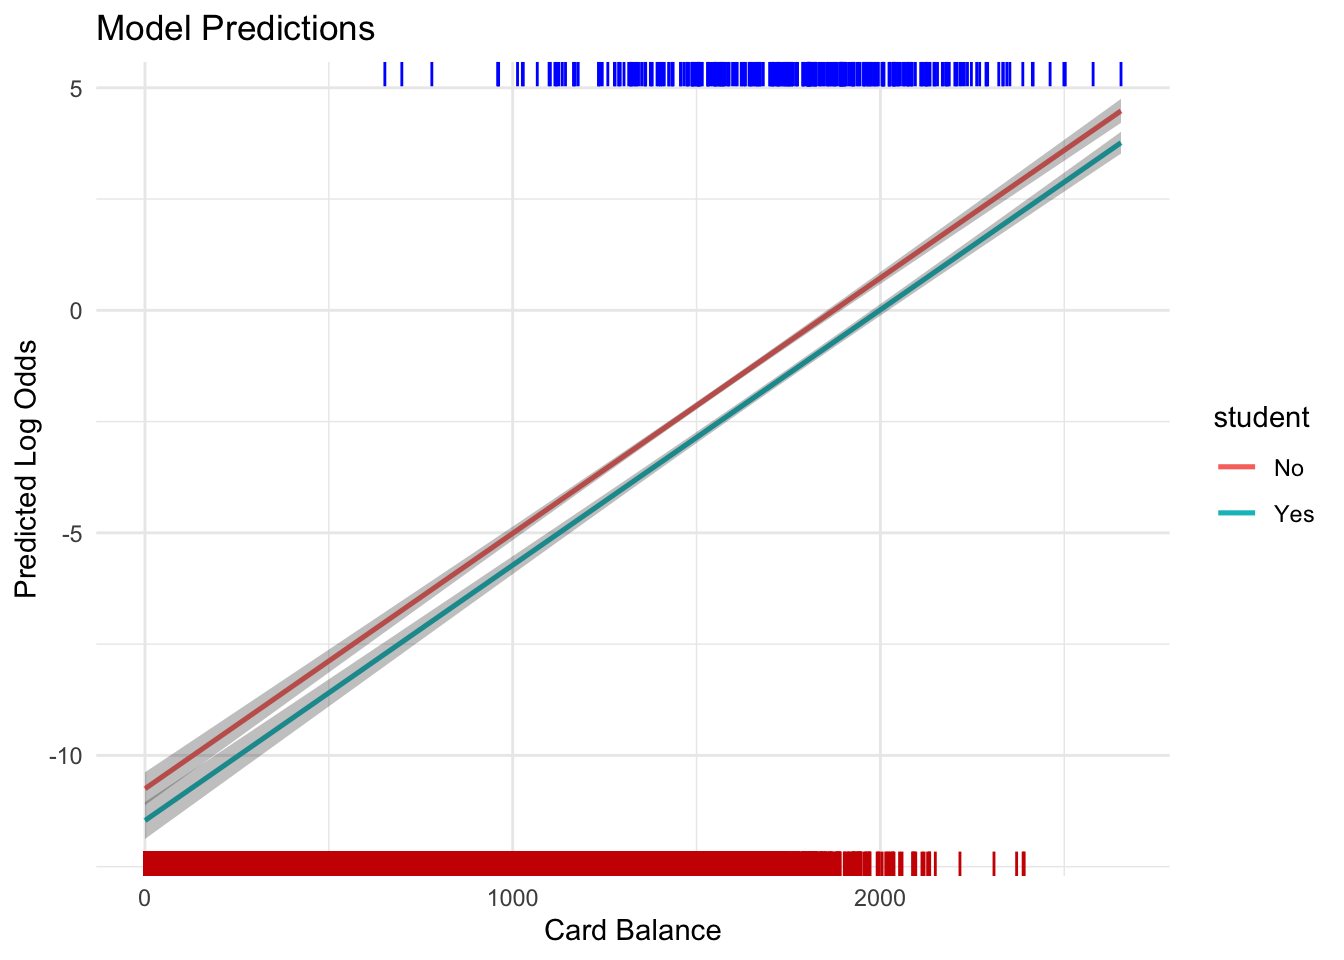
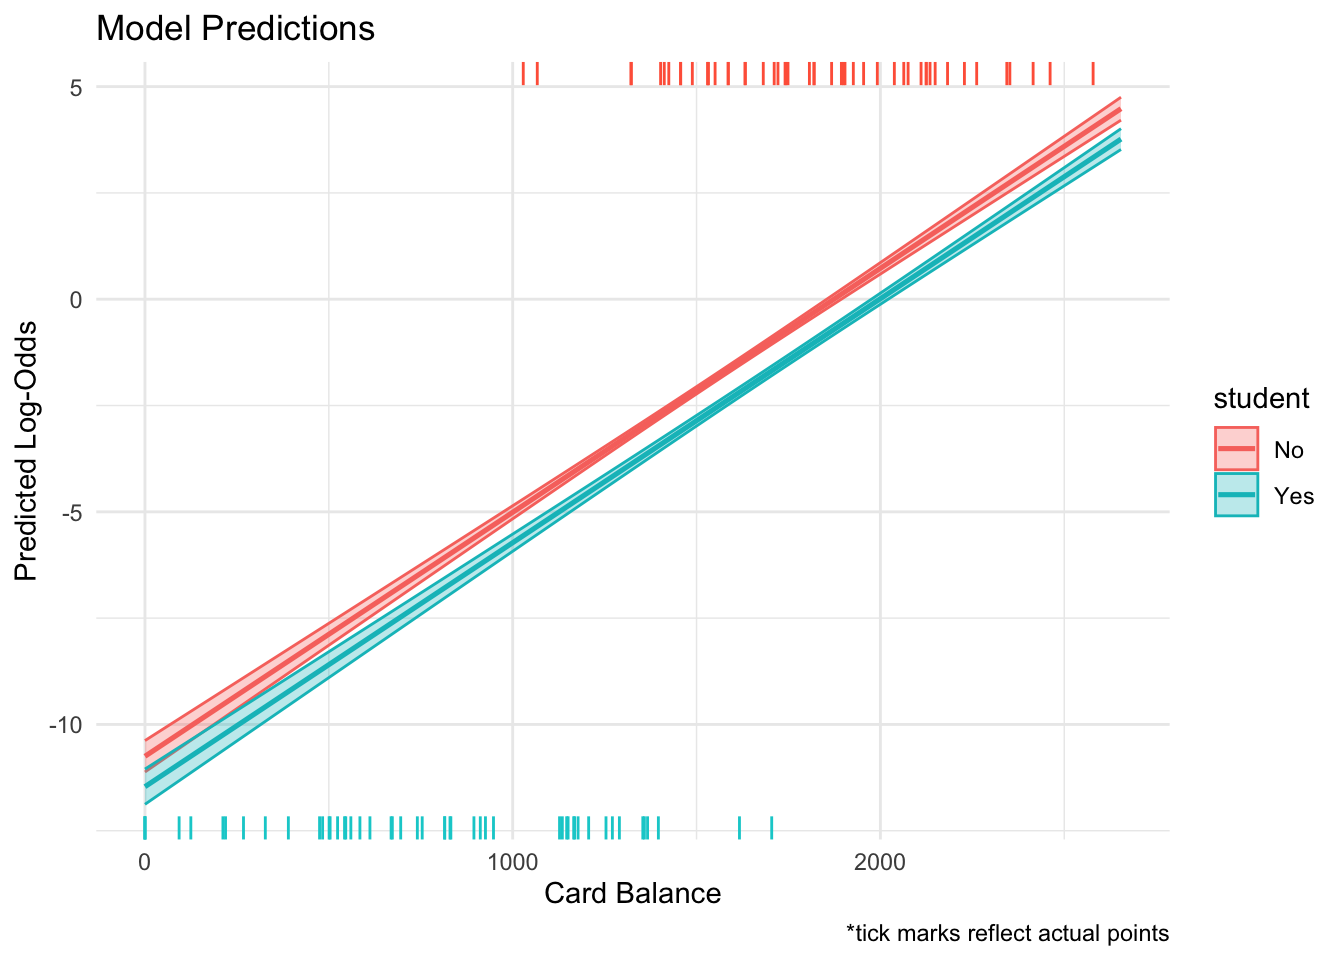
updates

diff --git a/docs/posts/BlogPost3/index.html b/docs/posts/BlogPost3/index.html
@@ -178,7 +178,7 @@ pre > code.sourceCode > span > a:first-child::before { text-decoration: underlin
 
 <section id="introduction" class="level2">
 <h2 class="anchored" data-anchor-id="introduction">Introduction</h2>
-<p>The data set I am working with for this post consists of 10000 individuals and whether their credit card has defaulted or not. The variables I am using are card balance and whether the credit card holder is a student. My goal is to model and visualize probability of defaulting by using logistic regression. An important quality of the data to note is that nearly 97% of the cases do not default. The data set is publicly available on Kaggle and can be found below.</p>
+<p>The data set I am working with for this post consists of 10000 individuals and whether their credit card has defaulted or not. The variables I am interested in are card balance, income, and whether the credit card holder is a student. My goal is to model and visualize probability of defaulting by using logistic regression. An important quality of the data to note is that nearly 97% of the cases do not default. The data set is publicly available on Kaggle and can be found through the link below.</p>
 <p>Link: <a href="https://www.kaggle.com/datasets/singh001avinash/default-credit-card">Default Dataset</a></p>
 <section id="class-balance" class="level3">
 <h3 class="anchored" data-anchor-id="class-balance">Class balance</h3>
@@ -225,7 +225,7 @@ Number of Fisher Scoring iterations: 8</code></pre>
 <div class="cell">
 <div class="sourceCode cell-code" id="cb4"><pre class="sourceCode r code-with-copy"><code class="sourceCode r"><span id="cb4-1"><a href="#cb4-1" aria-hidden="true" tabindex="-1"></a>grid <span class="ot">&lt;-</span> credit <span class="sc">|&gt;</span></span>
 <span id="cb4-2"><a href="#cb4-2" aria-hidden="true" tabindex="-1"></a>  <span class="fu">data_grid</span>(</span>
-<span id="cb4-3"><a href="#cb4-3" aria-hidden="true" tabindex="-1"></a>    <span class="at">balance =</span> <span class="fu">seq_range</span>(balance, <span class="at">n =</span> <span class="dv">40</span>),</span>
+<span id="cb4-3"><a href="#cb4-3" aria-hidden="true" tabindex="-1"></a>    <span class="at">balance =</span> <span class="fu">seq_range</span>(balance, <span class="at">n =</span> <span class="dv">60</span>),</span>
 <span id="cb4-4"><a href="#cb4-4" aria-hidden="true" tabindex="-1"></a>    <span class="at">student =</span> <span class="fu">c</span>(<span class="st">"Yes"</span>, <span class="st">"No"</span>)</span>
 <span id="cb4-5"><a href="#cb4-5" aria-hidden="true" tabindex="-1"></a>  ) </span>
 <span id="cb4-6"><a href="#cb4-6" aria-hidden="true" tabindex="-1"></a></span>
@@ -236,8 +236,17 @@ Number of Fisher Scoring iterations: 8</code></pre>
 <span id="cb4-11"><a href="#cb4-11" aria-hidden="true" tabindex="-1"></a>  <span class="fu">mutate</span>(<span class="at">.lower =</span> .fitted <span class="sc">-</span> .se.fit,</span>
 <span id="cb4-12"><a href="#cb4-12" aria-hidden="true" tabindex="-1"></a>         <span class="at">.upper =</span> .fitted <span class="sc">+</span> .se.fit)</span>
 <span id="cb4-13"><a href="#cb4-13" aria-hidden="true" tabindex="-1"></a></span>
-<span id="cb4-14"><a href="#cb4-14" aria-hidden="true" tabindex="-1"></a>default_yes <span class="ot">&lt;-</span> credit<span class="sc">|&gt;</span><span class="fu">filter</span>(default <span class="sc">==</span> <span class="dv">1</span>)</span>
-<span id="cb4-15"><a href="#cb4-15" aria-hidden="true" tabindex="-1"></a>default_no <span class="ot">&lt;-</span> credit<span class="sc">|&gt;</span><span class="fu">filter</span>(default <span class="sc">==</span> <span class="dv">0</span>)</span></code><button title="Copy to Clipboard" class="code-copy-button"><i class="bi"></i></button></pre></div>
+<span id="cb4-14"><a href="#cb4-14" aria-hidden="true" tabindex="-1"></a></span>
+<span id="cb4-15"><a href="#cb4-15" aria-hidden="true" tabindex="-1"></a></span>
+<span id="cb4-16"><a href="#cb4-16" aria-hidden="true" tabindex="-1"></a><span class="co"># obtaining sample to avoid overlap in following geom_rug()</span></span>
+<span id="cb4-17"><a href="#cb4-17" aria-hidden="true" tabindex="-1"></a>default_yes <span class="ot">&lt;-</span> credit<span class="sc">|&gt;</span></span>
+<span id="cb4-18"><a href="#cb4-18" aria-hidden="true" tabindex="-1"></a>  <span class="fu">filter</span>(default <span class="sc">==</span> <span class="dv">1</span>)<span class="sc">|&gt;</span></span>
+<span id="cb4-19"><a href="#cb4-19" aria-hidden="true" tabindex="-1"></a>  <span class="fu">sample_n</span>(<span class="at">size =</span> <span class="dv">50</span>, <span class="at">replace =</span> F)</span>
+<span id="cb4-20"><a href="#cb4-20" aria-hidden="true" tabindex="-1"></a></span>
+<span id="cb4-21"><a href="#cb4-21" aria-hidden="true" tabindex="-1"></a></span>
+<span id="cb4-22"><a href="#cb4-22" aria-hidden="true" tabindex="-1"></a>default_no <span class="ot">&lt;-</span> credit<span class="sc">|&gt;</span></span>
+<span id="cb4-23"><a href="#cb4-23" aria-hidden="true" tabindex="-1"></a>  <span class="fu">filter</span>(default <span class="sc">==</span> <span class="dv">0</span>)<span class="sc">|&gt;</span></span>
+<span id="cb4-24"><a href="#cb4-24" aria-hidden="true" tabindex="-1"></a>  <span class="fu">sample_n</span>(<span class="at">size =</span> <span class="dv">50</span>, <span class="at">replace =</span> F)</span></code><button title="Copy to Clipboard" class="code-copy-button"><i class="bi"></i></button></pre></div>
 </div>
 </section>
 <section id="log-odds-visualization" class="level2">
@@ -248,12 +257,12 @@ Number of Fisher Scoring iterations: 8</code></pre>
 <span id="cb5-3"><a href="#cb5-3" aria-hidden="true" tabindex="-1"></a>  <span class="fu">geom_line</span>(<span class="fu">aes</span>(<span class="at">color =</span> student), <span class="at">size =</span> <span class="fl">0.9</span>)<span class="sc">+</span></span>
 <span id="cb5-4"><a href="#cb5-4" aria-hidden="true" tabindex="-1"></a>  <span class="fu">geom_ribbon</span>(<span class="at">data =</span> aug, <span class="fu">aes</span>(<span class="at">y =</span> .fitted,</span>
 <span id="cb5-5"><a href="#cb5-5" aria-hidden="true" tabindex="-1"></a>                                  <span class="at">ymin =</span> .lower,</span>
-<span id="cb5-6"><a href="#cb5-6" aria-hidden="true" tabindex="-1"></a>                                  <span class="at">ymax =</span> .upper), </span>
+<span id="cb5-6"><a href="#cb5-6" aria-hidden="true" tabindex="-1"></a>                                  <span class="at">ymax =</span> .upper, <span class="at">color =</span> student, <span class="at">fill =</span> student), </span>
 <span id="cb5-7"><a href="#cb5-7" aria-hidden="true" tabindex="-1"></a>              <span class="at">alpha =</span> <span class="fl">0.3</span>)<span class="sc">+</span></span>
-<span id="cb5-8"><a href="#cb5-8" aria-hidden="true" tabindex="-1"></a>  <span class="fu">geom_rug</span>(<span class="at">data =</span> default_yes, <span class="at">sides =</span> <span class="st">"t"</span>, <span class="fu">aes</span>(<span class="at">y =</span> default), <span class="at">color =</span> <span class="st">"blue"</span>)<span class="sc">+</span></span>
-<span id="cb5-9"><a href="#cb5-9" aria-hidden="true" tabindex="-1"></a>  <span class="fu">geom_rug</span>(<span class="at">data =</span> default_no, <span class="at">sides =</span> <span class="st">"b"</span>, <span class="fu">aes</span>(<span class="at">y =</span> default), <span class="at">color =</span> <span class="st">"red3"</span>)<span class="sc">+</span></span>
+<span id="cb5-8"><a href="#cb5-8" aria-hidden="true" tabindex="-1"></a>  <span class="fu">geom_rug</span>(<span class="at">data =</span> default_yes, <span class="at">sides =</span> <span class="st">"t"</span>, <span class="fu">aes</span>(<span class="at">y =</span> default), <span class="at">color =</span> <span class="st">"tomato"</span>)<span class="sc">+</span></span>
+<span id="cb5-9"><a href="#cb5-9" aria-hidden="true" tabindex="-1"></a>  <span class="fu">geom_rug</span>(<span class="at">data =</span> default_no, <span class="at">sides =</span> <span class="st">"b"</span>, <span class="fu">aes</span>(<span class="at">y =</span> default), <span class="at">color =</span> <span class="st">"darkturquoise"</span>)<span class="sc">+</span></span>
 <span id="cb5-10"><a href="#cb5-10" aria-hidden="true" tabindex="-1"></a>  <span class="fu">theme_minimal</span>()<span class="sc">+</span></span>
-<span id="cb5-11"><a href="#cb5-11" aria-hidden="true" tabindex="-1"></a>  <span class="fu">labs</span>(<span class="at">x =</span> <span class="st">"Card Balance"</span>, <span class="at">y =</span> <span class="st">"Predicted Log Odds"</span>, <span class="at">title =</span> <span class="st">"Model Predictions"</span>)</span></code><button title="Copy to Clipboard" class="code-copy-button"><i class="bi"></i></button></pre></div>
+<span id="cb5-11"><a href="#cb5-11" aria-hidden="true" tabindex="-1"></a>  <span class="fu">labs</span>(<span class="at">x =</span> <span class="st">"Card Balance"</span>, <span class="at">y =</span> <span class="st">"Predicted Log-Odds"</span>, <span class="at">title =</span> <span class="st">"Model Predictions"</span>, <span class="at">caption =</span> <span class="st">"*tick marks reflect actual points"</span>)</span></code><button title="Copy to Clipboard" class="code-copy-button"><i class="bi"></i></button></pre></div>
 <div class="cell-output cell-output-stderr">
 <pre><code>Warning: Using `size` aesthetic for lines was deprecated in ggplot2 3.4.0.
 ℹ Please use `linewidth` instead.</code></pre>
@@ -278,12 +287,12 @@ Number of Fisher Scoring iterations: 8</code></pre>
 <span id="cb8-3"><a href="#cb8-3" aria-hidden="true" tabindex="-1"></a>  <span class="fu">geom_line</span>(<span class="fu">aes</span>(<span class="at">color =</span> student), <span class="at">size =</span> <span class="fl">0.9</span>)<span class="sc">+</span></span>
 <span id="cb8-4"><a href="#cb8-4" aria-hidden="true" tabindex="-1"></a>  <span class="fu">geom_ribbon</span>(<span class="at">data =</span> aug2, <span class="fu">aes</span>(<span class="at">y =</span> .prob,</span>
 <span id="cb8-5"><a href="#cb8-5" aria-hidden="true" tabindex="-1"></a>                                  <span class="at">ymin =</span> .lowerprob,</span>
-<span id="cb8-6"><a href="#cb8-6" aria-hidden="true" tabindex="-1"></a>                                  <span class="at">ymax =</span> .upperprob), </span>
+<span id="cb8-6"><a href="#cb8-6" aria-hidden="true" tabindex="-1"></a>                                  <span class="at">ymax =</span> .upperprob, <span class="at">color =</span> student, <span class="at">fill =</span> student), </span>
 <span id="cb8-7"><a href="#cb8-7" aria-hidden="true" tabindex="-1"></a>              <span class="at">alpha =</span> <span class="fl">0.3</span>)<span class="sc">+</span></span>
-<span id="cb8-8"><a href="#cb8-8" aria-hidden="true" tabindex="-1"></a>  <span class="fu">geom_rug</span>(<span class="at">data =</span> default_yes, <span class="at">sides =</span> <span class="st">"t"</span>, <span class="fu">aes</span>(<span class="at">y =</span> default), <span class="at">color =</span> <span class="st">"blue"</span>)<span class="sc">+</span></span>
-<span id="cb8-9"><a href="#cb8-9" aria-hidden="true" tabindex="-1"></a>  <span class="fu">geom_rug</span>(<span class="at">data =</span> default_no, <span class="at">sides =</span> <span class="st">"b"</span>, <span class="fu">aes</span>(<span class="at">y =</span> default), <span class="at">color =</span> <span class="st">"red3"</span>)<span class="sc">+</span></span>
+<span id="cb8-8"><a href="#cb8-8" aria-hidden="true" tabindex="-1"></a>  <span class="fu">geom_rug</span>(<span class="at">data =</span> default_yes, <span class="at">sides =</span> <span class="st">"t"</span>, <span class="fu">aes</span>(<span class="at">y =</span> default), <span class="at">color =</span> <span class="st">"tomato"</span>)<span class="sc">+</span></span>
+<span id="cb8-9"><a href="#cb8-9" aria-hidden="true" tabindex="-1"></a>  <span class="fu">geom_rug</span>(<span class="at">data =</span> default_no, <span class="at">sides =</span> <span class="st">"b"</span>, <span class="fu">aes</span>(<span class="at">y =</span> default), <span class="at">color =</span> <span class="st">"darkturquoise"</span>)<span class="sc">+</span></span>
 <span id="cb8-10"><a href="#cb8-10" aria-hidden="true" tabindex="-1"></a>  <span class="fu">theme_minimal</span>()<span class="sc">+</span></span>
-<span id="cb8-11"><a href="#cb8-11" aria-hidden="true" tabindex="-1"></a>  <span class="fu">labs</span>(<span class="at">x =</span> <span class="st">"Card Balance"</span>, <span class="at">y =</span> <span class="st">"Predicted Probabilities"</span>, <span class="at">title =</span> <span class="st">"Model Predictions"</span>)</span></code><button title="Copy to Clipboard" class="code-copy-button"><i class="bi"></i></button></pre></div>
+<span id="cb8-11"><a href="#cb8-11" aria-hidden="true" tabindex="-1"></a>  <span class="fu">labs</span>(<span class="at">x =</span> <span class="st">"Card Balance"</span>, <span class="at">y =</span> <span class="st">"Predicted Probabilities"</span>, <span class="at">title =</span> <span class="st">"Model Predictions"</span>, <span class="at">caption =</span> <span class="st">"*tick marks reflect actual points"</span>)</span></code><button title="Copy to Clipboard" class="code-copy-button"><i class="bi"></i></button></pre></div>
 <div class="cell-output-display">
 <p><img src="index_files/figure-html/unnamed-chunk-8-1.png" class="img-fluid" width="672"></p>
 </div>
@@ -297,6 +306,71 @@ Number of Fisher Scoring iterations: 8</code></pre>
 <section id="connection-to-class-ideas" class="level2">
 <h2 class="anchored" data-anchor-id="connection-to-class-ideas">Connection to Class Ideas</h2>
 <p>I would argue that this visualization is effective because it displays all of the components of the logistic regression model which I built to predict defaults. The process of creating the model, using the grid feature to make predictions at different values of our predictors, and displaying the resulting model allows viewers to understand precisely how the model is gauging probability for cases. Additionally, the use of the ribbon helps to display model uncertainty in terms of standard error.</p>
+</section>
+<section id="adding-income-to-the-model" class="level2">
+<h2 class="anchored" data-anchor-id="adding-income-to-the-model">Adding <code>income</code> to the Model</h2>
+<div class="cell">
+<div class="sourceCode cell-code" id="cb9"><pre class="sourceCode r code-with-copy"><code class="sourceCode r"><span id="cb9-1"><a href="#cb9-1" aria-hidden="true" tabindex="-1"></a>mod2 <span class="ot">&lt;-</span> <span class="fu">glm</span>(default <span class="sc">~</span> balance <span class="sc">+</span> income <span class="sc">+</span> student, <span class="at">data =</span> credit,</span>
+<span id="cb9-2"><a href="#cb9-2" aria-hidden="true" tabindex="-1"></a>                     <span class="at">family =</span> <span class="st">"binomial"</span>)</span>
+<span id="cb9-3"><a href="#cb9-3" aria-hidden="true" tabindex="-1"></a></span>
+<span id="cb9-4"><a href="#cb9-4" aria-hidden="true" tabindex="-1"></a>grid2 <span class="ot">&lt;-</span> credit <span class="sc">|&gt;</span></span>
+<span id="cb9-5"><a href="#cb9-5" aria-hidden="true" tabindex="-1"></a>  <span class="fu">data_grid</span>(</span>
+<span id="cb9-6"><a href="#cb9-6" aria-hidden="true" tabindex="-1"></a>    <span class="at">balance =</span> <span class="fu">seq_range</span>(balance, <span class="at">n =</span> <span class="dv">60</span>),</span>
+<span id="cb9-7"><a href="#cb9-7" aria-hidden="true" tabindex="-1"></a>    <span class="at">income =</span> <span class="fu">seq_range</span>(income, <span class="at">n =</span> <span class="dv">4</span>, <span class="at">pretty =</span> T),</span>
+<span id="cb9-8"><a href="#cb9-8" aria-hidden="true" tabindex="-1"></a>    <span class="at">student =</span> <span class="fu">c</span>(<span class="st">"Yes"</span>, <span class="st">"No"</span>)</span>
+<span id="cb9-9"><a href="#cb9-9" aria-hidden="true" tabindex="-1"></a>  ) </span>
+<span id="cb9-10"><a href="#cb9-10" aria-hidden="true" tabindex="-1"></a></span>
+<span id="cb9-11"><a href="#cb9-11" aria-hidden="true" tabindex="-1"></a>aug3 <span class="ot">&lt;-</span> <span class="fu">augment</span>(mod2, <span class="at">newdata =</span> grid2,</span>
+<span id="cb9-12"><a href="#cb9-12" aria-hidden="true" tabindex="-1"></a>                    <span class="at">se_fit =</span> <span class="cn">TRUE</span>)<span class="sc">|&gt;</span></span>
+<span id="cb9-13"><a href="#cb9-13" aria-hidden="true" tabindex="-1"></a>  <span class="fu">mutate</span>(<span class="at">.lower =</span> .fitted <span class="sc">-</span> .se.fit,</span>
+<span id="cb9-14"><a href="#cb9-14" aria-hidden="true" tabindex="-1"></a>         <span class="at">.upper =</span> .fitted <span class="sc">+</span> .se.fit)</span>
+<span id="cb9-15"><a href="#cb9-15" aria-hidden="true" tabindex="-1"></a></span>
+<span id="cb9-16"><a href="#cb9-16" aria-hidden="true" tabindex="-1"></a></span>
+<span id="cb9-17"><a href="#cb9-17" aria-hidden="true" tabindex="-1"></a></span>
+<span id="cb9-18"><a href="#cb9-18" aria-hidden="true" tabindex="-1"></a><span class="fu">ggplot</span>(<span class="at">data =</span> aug3, </span>
+<span id="cb9-19"><a href="#cb9-19" aria-hidden="true" tabindex="-1"></a>       <span class="fu">aes</span>(<span class="at">x =</span> balance, <span class="at">y =</span> .fitted, <span class="at">color =</span> <span class="fu">factor</span>(income), <span class="at">fill =</span> <span class="fu">factor</span>(income)))<span class="sc">+</span></span>
+<span id="cb9-20"><a href="#cb9-20" aria-hidden="true" tabindex="-1"></a>  <span class="fu">geom_smooth</span>(<span class="at">se =</span> T)<span class="sc">+</span></span>
+<span id="cb9-21"><a href="#cb9-21" aria-hidden="true" tabindex="-1"></a>  <span class="fu">geom_rug</span>(<span class="at">data =</span> default_yes, <span class="at">sides =</span> <span class="st">"t"</span>, <span class="fu">aes</span>(<span class="at">y =</span> default), <span class="at">color =</span> <span class="st">"tomato"</span>)<span class="sc">+</span></span>
+<span id="cb9-22"><a href="#cb9-22" aria-hidden="true" tabindex="-1"></a>  <span class="fu">geom_rug</span>(<span class="at">data =</span> default_no, <span class="at">sides =</span> <span class="st">"b"</span>, <span class="fu">aes</span>(<span class="at">y =</span> default), <span class="at">color =</span> <span class="st">"darkturquoise"</span>)<span class="sc">+</span></span>
+<span id="cb9-23"><a href="#cb9-23" aria-hidden="true" tabindex="-1"></a>  <span class="fu">facet_wrap</span>(<span class="sc">~</span>student)<span class="sc">+</span></span>
+<span id="cb9-24"><a href="#cb9-24" aria-hidden="true" tabindex="-1"></a>  <span class="fu">theme_minimal</span>()<span class="sc">+</span></span>
+<span id="cb9-25"><a href="#cb9-25" aria-hidden="true" tabindex="-1"></a>  <span class="fu">labs</span>(<span class="at">x =</span> <span class="st">"Card Balance"</span>, <span class="at">y =</span> <span class="st">"Predicted Log-Odds"</span>, <span class="at">title =</span> <span class="st">"Model Predictions"</span>, <span class="at">caption =</span> <span class="st">"*tick marks reflect actual points"</span>, <span class="at">color =</span> <span class="st">"Income"</span>)<span class="sc">+</span></span>
+<span id="cb9-26"><a href="#cb9-26" aria-hidden="true" tabindex="-1"></a>  <span class="fu">guides</span>(<span class="at">fill =</span> <span class="st">"none"</span>)</span></code><button title="Copy to Clipboard" class="code-copy-button"><i class="bi"></i></button></pre></div>
+<div class="cell-output cell-output-stderr">
+<pre><code>`geom_smooth()` using method = 'loess' and formula = 'y ~ x'</code></pre>
+</div>
+<div class="cell-output-display">
+<p><img src="index_files/figure-html/unnamed-chunk-9-1.png" class="img-fluid" width="672"></p>
+</div>
+</div>
+<p>In the plot above, we see that income has little to no effect in predicting probability of default. The lines at various values of income do not differ in intecept by very much, meaning it should likely not be included in the final model.</p>
+<div class="cell">
+<div class="sourceCode cell-code" id="cb11"><pre class="sourceCode r code-with-copy"><code class="sourceCode r"><span id="cb11-1"><a href="#cb11-1" aria-hidden="true" tabindex="-1"></a><span class="fu">summary</span>(mod2)</span></code><button title="Copy to Clipboard" class="code-copy-button"><i class="bi"></i></button></pre></div>
+<div class="cell-output cell-output-stdout">
+<pre><code>
+Call:
+glm(formula = default ~ balance + income + student, family = "binomial", 
+    data = credit)
+
+Coefficients:
+              Estimate Std. Error z value Pr(&gt;|z|)    
+(Intercept) -1.087e+01  4.923e-01 -22.080  &lt; 2e-16 ***
+balance      5.737e-03  2.319e-04  24.738  &lt; 2e-16 ***
+income       3.033e-06  8.203e-06   0.370  0.71152    
+studentYes  -6.468e-01  2.363e-01  -2.738  0.00619 ** 
+---
+Signif. codes:  0 '***' 0.001 '**' 0.01 '*' 0.05 '.' 0.1 ' ' 1
+
+(Dispersion parameter for binomial family taken to be 1)
+
+    Null deviance: 2920.6  on 9999  degrees of freedom
+Residual deviance: 1571.5  on 9996  degrees of freedom
+AIC: 1579.5
+
+Number of Fisher Scoring iterations: 8</code></pre>
+</div>
+</div>
+<p>Examining the summary of the model output, our findings from the plot above are reflects by the small t-value associated with income. Additionally, the AIC is lower in the first model, confirming that income is not useful in the model for predicting default probability.</p>
 
 
 </section>

diff --git a/docs/index.html b/docs/index.html
@@ -169,7 +169,7 @@ ul.task-list li input[type="checkbox"] {
 
 <div class="quarto-listing quarto-listing-container-default" id="listing-listing">
 <div class="list quarto-listing-default">
-<div class="quarto-post image-right" data-index="0" data-listing-date-sort="1709874000000" data-listing-file-modified-sort="1709918386857" data-listing-date-modified-sort="NaN" data-listing-reading-time-sort="5">
+<div class="quarto-post image-right" data-index="0" data-listing-date-sort="1709874000000" data-listing-file-modified-sort="1710618057086" data-listing-date-modified-sort="NaN" data-listing-reading-time-sort="7">
 <div class="thumbnail">
 <p><a href="./posts/BlogPost3/index.html"> <p class="card-img-top"><img src="posts/BlogPost3/index_files/figure-html/unnamed-chunk-6-1.png"  class="thumbnail-image card-img"/></p> </a></p>
 </div>
@@ -182,7 +182,7 @@ Blog Post 3
 
 </div>
 <div class="listing-description">
-The data set I am working with for this post consists of 10000 individuals and whether their credit card has defaulted or not. The variables I am using are card balance and…
+The data set I am working with for this post consists of 10000 individuals and whether their credit card has defaulted or not. The variables I am interested in are card…
 </div>
 </a>
 </div>
